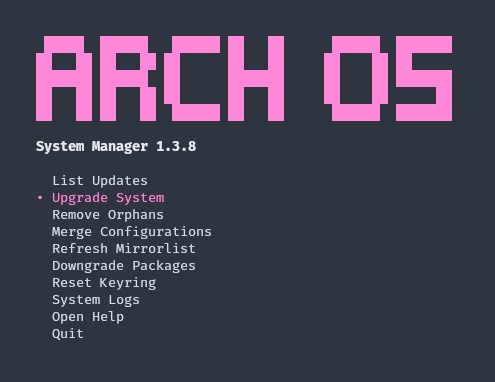
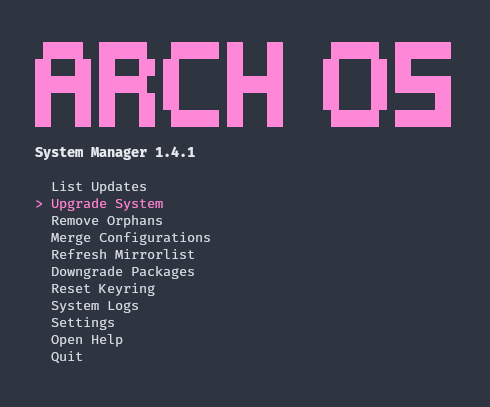
1.4.1
* Add settings page
* Refactoring news

diff --git a/docs/README.md b/docs/README.md
@@ -45,8 +45,12 @@ dconf write /org/gnome/shell/extensions/arch-update/package-manager "'arch-os --
 
 ### Arch Linux News
 
-Set the number of news items to suit your needs. Add the property `ARCH_LINUX_NEWS_COUNT` to your `~/.arch-os/arch-os.conf` and set to your prefered number.
-To deactivate the Arch Linux News, the property must be set to `ARCH_LINUX_NEWS_COUNT=0`.
+Set the number of news items to suit your needs. Change the property `ARCH_LINUX_NEWS_COUNT` in `Settings` to your prefered number.
+To disable the Arch Linux News, set `ARCH_LINUX_NEWS_COUNT` to `0`.
+
+### Flatpak Support
+
+Flatpak support is enabled by default. To disable Flatpak support, change `FLATPAK_SUPPORT_ENABLED` in your `Settings` to `false`.
 
 <br>
 
